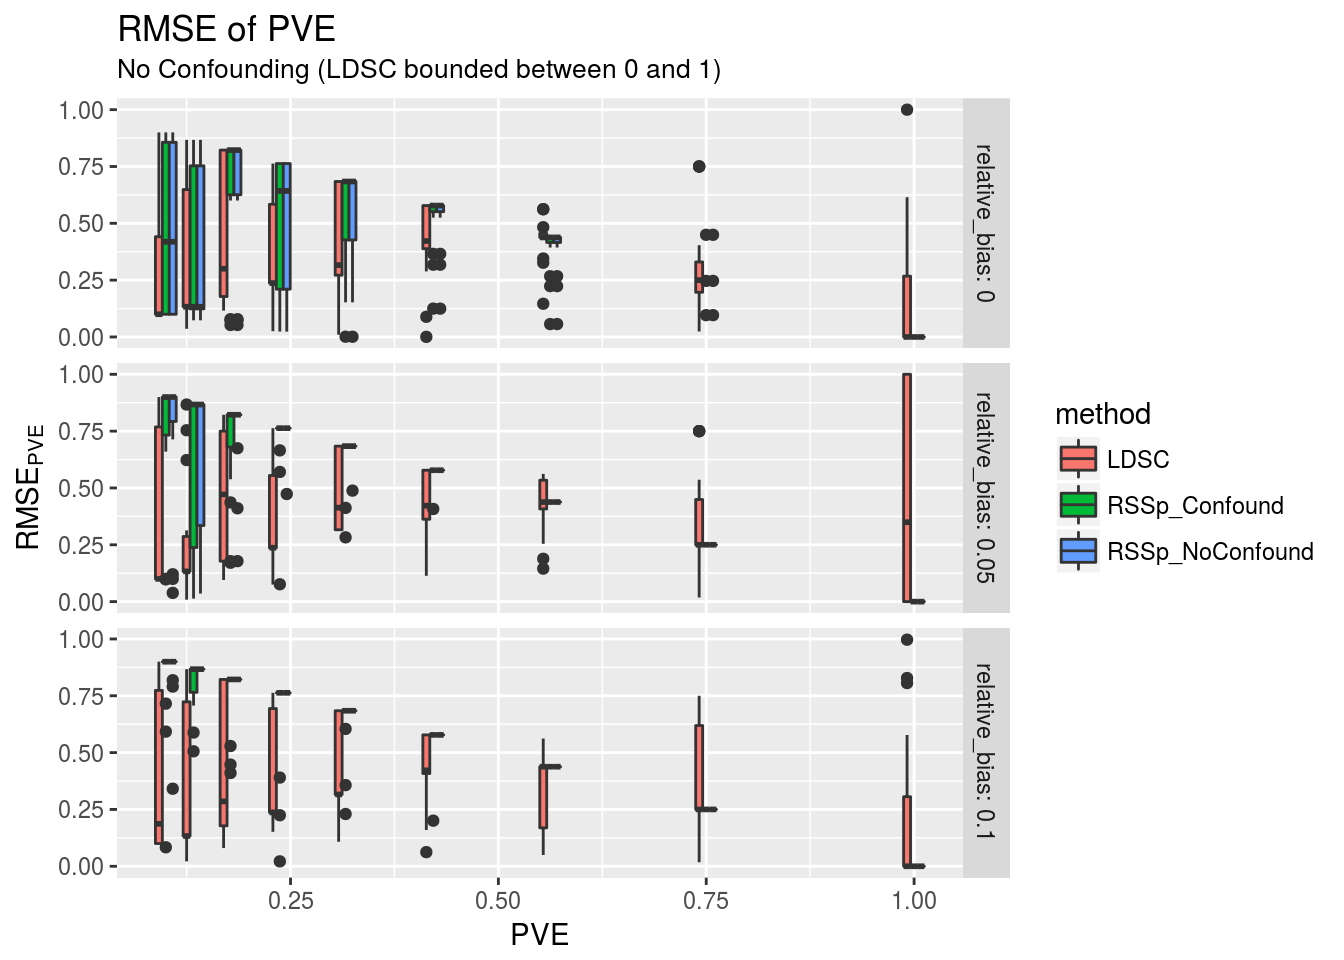
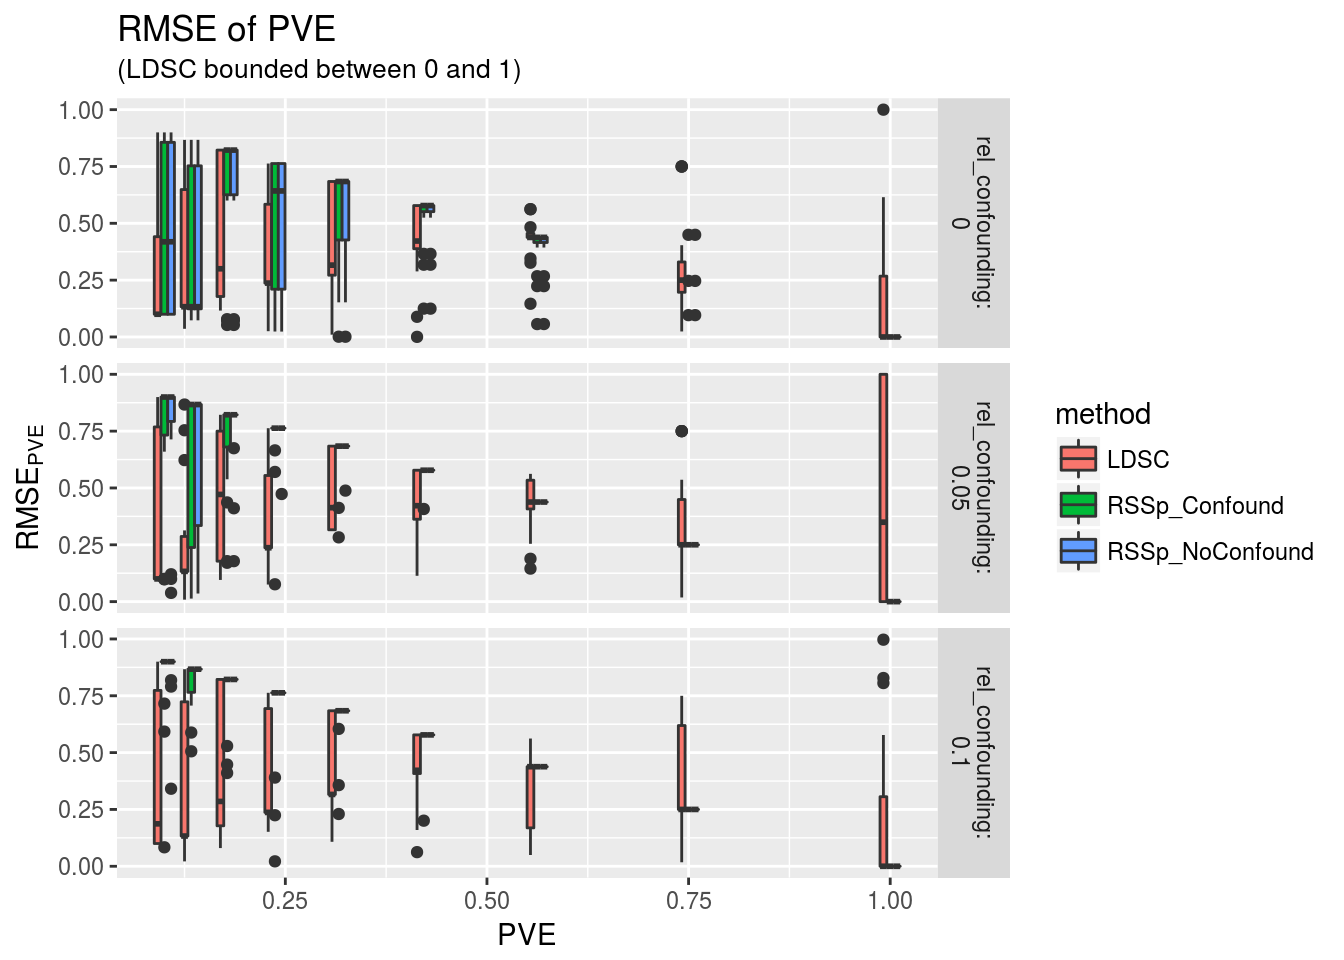
Build site.

diff --git a/docs/RSSp_ldsc_highPVE.html b/docs/RSSp_ldsc_highPVE.html
@@ -318,7 +318,7 @@ shared across the workflowr files. -->
 <p><strong>Last updated:</strong> 2017-11-28</p>
 <!-- Insert the code version (Git commit SHA1) if Git repository exists and R
  package git2r is installed -->
-<p><strong>Code version:</strong> 9ba070a</p>
+<p><strong>Code version:</strong> cd8ca01</p>
 <!-- Add your analysis here -->
 <div id="simulation" class="section level1">
 <h1>Simulation</h1>
@@ -335,20 +335,9 @@ shared across the workflowr files. -->
 <h2>Loci</h2>
 <p>Loci for this simulation were chosen by taking the intersection of: * Loci typed (or imputed) from the 1kg reference panel * Loci for which there was a genetic map value * Loci that fell within <code>ldetect</code> break points * Loci included in the LD score regression example GWAS data</p>
 <p>This ended up being <code>844501</code> SNPs in total.</p>
-<pre><code># A tibble: 27 x 3
-    True_PVE True_Confound Relative_Confounding
-       &lt;dbl&gt;         &lt;dbl&gt;                &lt;dbl&gt;
- 1 0.0999900   0.000000000                 0.00
- 2 0.0999900   0.004999500                 0.05
- 3 0.0999900   0.009999000                 0.10
- 4 0.1333388   0.000000000                 0.00
- 5 0.1333388   0.006666940                 0.05
- 6 0.1333388   0.013333881                 0.10
- 7 0.1778102   0.000000000                 0.00
- 8 0.1778102   0.008890508                 0.05
- 9 0.1778102   0.017781016                 0.10
-10 0.2371137   0.000000000                 0.00
-# ... with 17 more rows</code></pre>
+<!-- ```{r} -->
+<!-- select(comp_est_df,True_PVE=tpve,True_Confound=tbias) %>% distinct(True_PVE,True_Confound) %>% mutate(Relative_Confounding=True_Confound/True_PVE) %>% arrange(True_PVE,True_Confound) -->
+<!-- ``` -->
 </div>
 <div id="methods" class="section level2">
 <h2>Methods</h2>
@@ -359,7 +348,7 @@ shared across the workflowr files. -->
 </ul>
 <p>The first result I want to highlight is just the relative performance of the three methods: <code>LDSC</code>, <code>RSSp</code> with a confounding parameter (<code>RSSp_Confound</code>), and <code>RSSp</code> without a confounding parameter (<code>RSSp_NoConfound</code>). “Performance” here means the RMSE of PVE <code>abs(pve-true_pve)</code> In these simulations there is no confounding. <strong>NB:</strong> Because <code>RSSp</code> bounds PVE between 0 and 1, <strong>I have bounded <code>LDSC</code> estimates between 0 and 1</strong> for the purpose of comparing RMSE between methods.</p>
 <p><img src="figure/RSSp_ldsc_highPVE.Rmd/rmse_pve-1.png" width="672" style="display: block; margin: auto;" /></p>
-<p>Next we see the simulation results that had a confounding parameter. Here I’ve split up the results using the variable <code>rel_confounding</code>, which is the level of true confounding divided by the true <span class="math inline">\(PVE\)</span>. <img src="figure/RSSp_ldsc_highPVE.Rmd/unnamed-chunk-2-1.png" width="672" style="display: block; margin: auto;" /></p>
+<p>Next we see the simulation results that had a confounding parameter. Here I’ve split up the results using the variable <code>rel_confounding</code>, which is the level of true confounding divided by the true <span class="math inline">\(PVE\)</span>. <img src="figure/RSSp_ldsc_highPVE.Rmd/unnamed-chunk-1-1.png" width="672" style="display: block; margin: auto;" /></p>
 <p>The next several plots show the same data as the box plots, (RMSE of PVE across methods,levels of counfounding, and true PVE), but are rearranged in several different ways, to make particular comparisons easier. (e.g how does the <code>RSSp_Confound</code> method perform as confounding increases at a given <code>PVE</code>). If it looks like RMSE is less than 0 or greater than one, that is simply an artifact of the plotting</p>
 <p><img src="figure/RSSp_ldsc_highPVE.Rmd/joy_bias_pve-1.png" width="672" style="display: block; margin: auto;" /> <img src="figure/RSSp_ldsc_highPVE.Rmd/joy_pve_bias-1.png" width="672" style="display: block; margin: auto;" /></p>
 <p><img src="figure/RSSp_ldsc_highPVE.Rmd/joy_bias_pve_rmse-1.png" width="672" style="display: block; margin: auto;" /></p>
@@ -368,7 +357,7 @@ shared across the workflowr files. -->
 <p><img src="figure/RSSp_ldsc_highPVE.Rmd/pve_tpve_bound-1.png" width="672" style="display: block; margin: auto;" /></p>
 <p><img src="figure/RSSp_ldsc_highPVE.Rmd/pve_tpve_bound_zoom-1.png" width="672" style="display: block; margin: auto;" /></p>
 <p><img src="figure/RSSp_ldsc_highPVE.Rmd/est_confound_method-1.png" width="672" style="display: block; margin: auto;" /></p>
-<p><img src="figure/RSSp_ldsc_highPVE.Rmd/unnamed-chunk-3-1.png" width="672" style="display: block; margin: auto;" /></p>
+<p><img src="figure/RSSp_ldsc_highPVE.Rmd/unnamed-chunk-2-1.png" width="672" style="display: block; margin: auto;" /></p>
 <p><img src="figure/RSSp_ldsc_highPVE.Rmd/est_pve_tpve_method-1.png" width="672" style="display: block; margin: auto;" /></p>
 </div>
 <div id="session-information" class="section level2">
